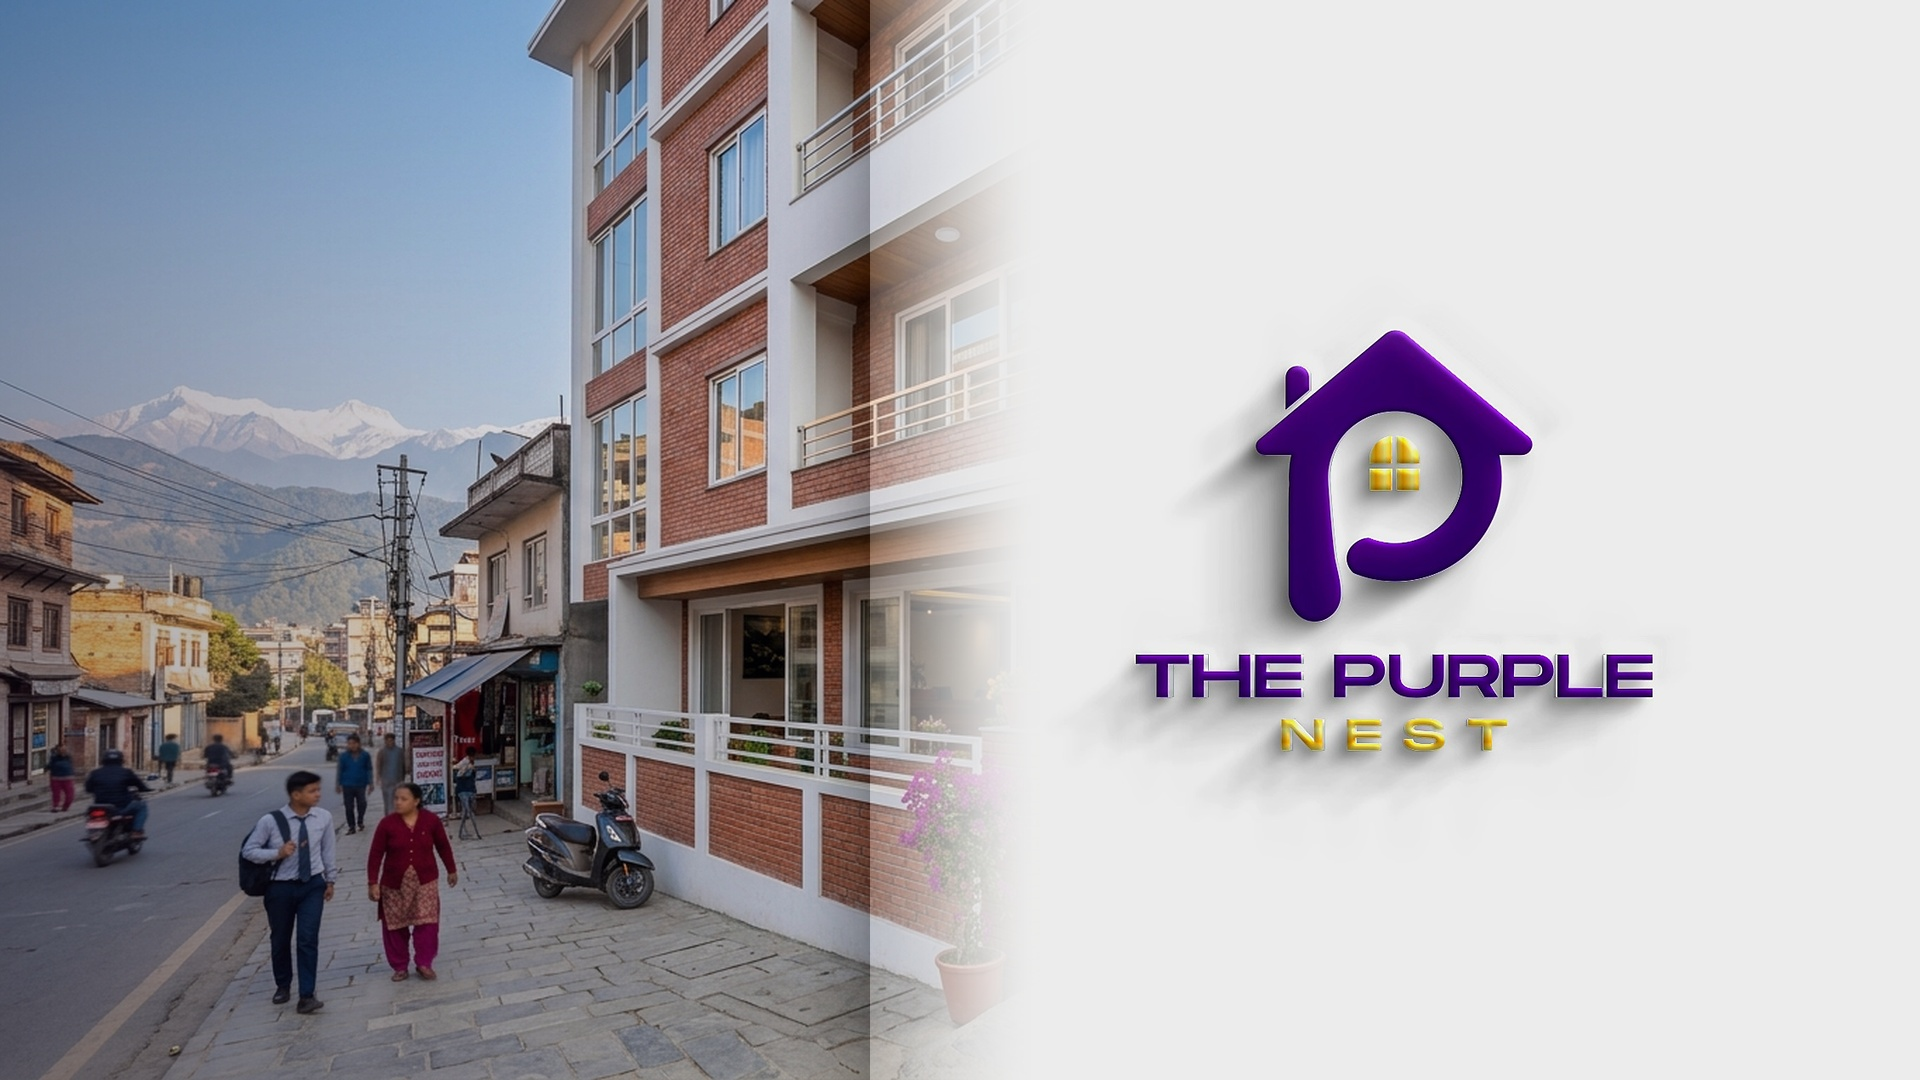
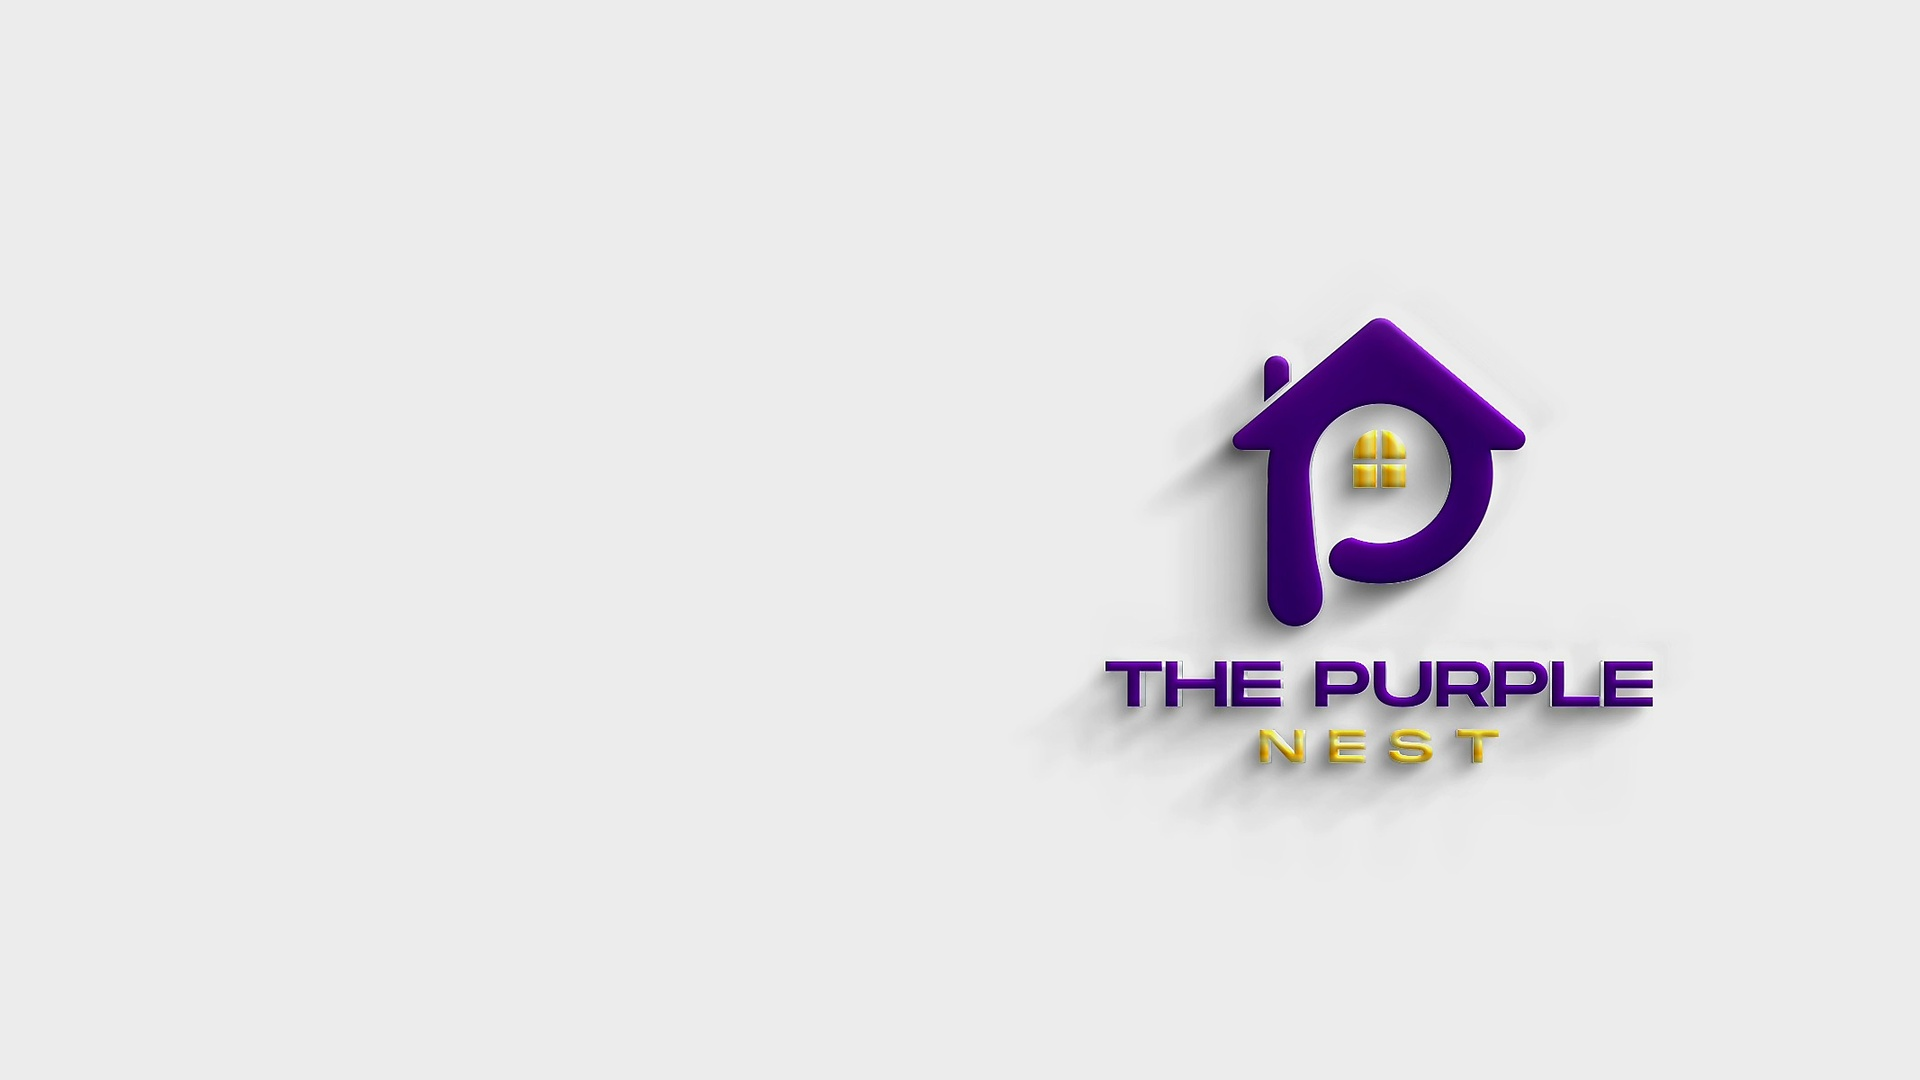
fix(hero): remove black gradient and dark cards, use brand purple typography for clear background

diff --git a/src/components/site/hero.tsx b/src/components/site/hero.tsx
@@ -27,7 +27,7 @@ export function Hero({ settings, rooms }: { settings: SiteSettings; rooms: Room[
   return (
     <section id="top" aria-roledescription="carousel" aria-label="Highlights">
       <div
-        className="relative h-[calc(100svh-104px)] min-h-[560px] max-h-[860px] overflow-hidden bg-ink"
+        className="relative h-[calc(100svh-104px)] min-h-[560px] max-h-[860px] overflow-hidden bg-[#ececec]"
         onMouseEnter={() => setPaused(true)}
         onMouseLeave={() => setPaused(false)}
       >
@@ -50,40 +50,38 @@ export function Hero({ settings, rooms }: { settings: SiteSettings; rooms: Room[
             ) : (
               <div className="size-full bg-[radial-gradient(circle_at_75%_30%,var(--color-brand)_0%,var(--color-ink)_65%)]" />
             )}
-            {/* Lighter, clear gradient so background imagery stays visible while maintaining text contrast */}
-            <div className="absolute inset-0 bg-gradient-to-r from-black/55 via-black/25 to-black/5" />
           </div>
         ))}
 
-        <div className="relative mx-auto flex h-full max-w-[1200px] items-center px-5 py-8">
+        <div className="relative mx-auto flex h-full max-w-[1200px] items-start sm:items-center px-5 pt-6 pb-8 sm:py-8">
           {slides.map(
             (s, i) =>
               i === index && (
                 <div
                   key={i}
-                  className="max-w-2xl rounded-3xl border border-white/20 bg-black/50 p-6 backdrop-blur-md shadow-2xl sm:p-8 md:p-9 text-white animate-fade-up"
+                  className="max-w-2xl py-4 animate-fade-up"
                 >
                   {/* Location & 3 Blocks Badge */}
-                  <div className="mb-4 inline-flex flex-wrap items-center gap-2 rounded-full border border-sun/60 bg-black/60 px-3.5 py-1.5 text-xs font-semibold text-white shadow-sm">
-                    <span className="flex items-center gap-1.5 text-sun">
-                      <MapPin className="size-3.5 shrink-0" />
+                  <div className="mb-4 inline-flex flex-wrap items-center gap-2 rounded-full border border-brand/30 bg-white/95 px-4 py-1.5 text-xs font-bold text-brand shadow-sm">
+                    <span className="flex items-center gap-1.5 text-brand">
+                      <MapPin className="size-3.5 shrink-0 text-brand" />
                       <span>Sinpa Marg, Gwarko, Lalitpur</span>
                     </span>
-                    <span className="text-white/40">•</span>
-                    <span className="flex items-center gap-1.5 text-amber-300">
-                      <Building2 className="size-3.5 shrink-0" />
+                    <span className="text-brand/40">•</span>
+                    <span className="flex items-center gap-1.5 text-brand">
+                      <Building2 className="size-3.5 shrink-0 text-brand" />
                       <span>3 Dedicated Blocks (A, B, C)</span>
                     </span>
                   </div>
 
-                  <h1 className="display text-[clamp(2.8rem,7vw,5.5rem)] leading-[0.98] drop-shadow-[0_4px_18px_rgba(0,0,0,0.45)]">
+                  <h1 className="display text-[clamp(2.8rem,7vw,5.5rem)] leading-[0.98] text-brand [text-shadow:0_1px_3px_rgba(255,255,255,0.95),0_0_15px_rgba(255,255,255,0.7)]">
                     {s.title}
                   </h1>
 
                   {cheapest > 0 && (
-                    <p className="label-caps mt-4 flex flex-wrap items-baseline gap-x-3 text-[13px] !tracking-[0.32em] text-white/90">
+                    <p className="label-caps mt-4 flex flex-wrap items-baseline gap-x-3 text-[13px] !tracking-[0.32em] text-brand/85 [text-shadow:0_1px_2px_rgba(255,255,255,0.9)]">
                       from{" "}
-                      <span className="oswald text-[2.6rem] sm:text-[3rem] font-bold normal-case leading-none !tracking-normal text-sun drop-shadow-[0_2px_10px_rgba(0,0,0,0.8)]">
+                      <span className="oswald text-[2.6rem] sm:text-[3.2rem] font-bold normal-case leading-none !tracking-normal text-brand drop-shadow-[0_2px_10px_rgba(255,255,255,0.85)]">
                         {formatRs(cheapest)}
                       </span>{" "}
                       a month
@@ -91,33 +89,33 @@ export function Hero({ settings, rooms }: { settings: SiteSettings; rooms: Room[
                   )}
 
                   {s.subtitle && (
-                    <p className="mt-3.5 text-[15.5px] sm:text-[17px] leading-relaxed text-white drop-shadow-[0_1px_4px_rgba(0,0,0,0.6)]">
+                    <p className="mt-3.5 text-[15.5px] sm:text-[17px] font-medium leading-relaxed text-ink [text-shadow:0_1px_2px_rgba(255,255,255,0.95)]">
                       {s.subtitle}
                     </p>
                   )}
 
                   {/* Quick highlights pill strip */}
-                  <div className="mt-5 flex flex-wrap items-center gap-2 text-xs text-white">
-                    <span className="inline-flex items-center gap-1.5 rounded-lg border border-white/25 bg-white/15 px-3 py-1.5 font-medium shadow-xs backdrop-blur-xs">
-                      <Building2 className="size-3.5 text-sun" />
+                  <div className="mt-5 flex flex-wrap items-center gap-2 text-xs">
+                    <span className="inline-flex items-center gap-1.5 rounded-lg border border-brand/25 bg-white/95 px-3 py-1.5 font-bold text-brand shadow-xs">
+                      <Building2 className="size-3.5 text-brand" />
                       <span>Block A • Block B • Block C</span>
                     </span>
-                    <span className="inline-flex items-center gap-1.5 rounded-lg border border-white/25 bg-white/15 px-3 py-1.5 font-medium shadow-xs backdrop-blur-xs">
-                      <MapPin className="size-3.5 text-sun" />
+                    <span className="inline-flex items-center gap-1.5 rounded-lg border border-brand/25 bg-white/95 px-3 py-1.5 font-bold text-brand shadow-xs">
+                      <MapPin className="size-3.5 text-brand" />
                       <span>Near Gwarko Chowk</span>
                     </span>
-                    <span className="inline-flex items-center gap-1.5 rounded-lg border border-white/25 bg-white/15 px-3 py-1.5 font-medium shadow-xs backdrop-blur-xs">
+                    <span className="inline-flex items-center gap-1.5 rounded-lg border border-brand/25 bg-white/95 px-3 py-1.5 font-bold text-brand shadow-xs">
                       <span>🍲 4 Fresh Meals Daily</span>
                     </span>
                   </div>
 
                   <div className="mt-7 flex flex-wrap items-center gap-3.5">
-                    <a href="#rooms" className="tbtn tbtn-sun shadow-lg">
+                    <a href="#rooms" className="tbtn tbtn-sun shadow-lg font-bold text-brand">
                       View 3 Blocks & Rooms
                     </a>
                     <a
                       href="#contact"
-                      className="tbtn border-2 border-white/80 bg-white/15 text-white hover:bg-white hover:text-ink font-semibold backdrop-blur-xs shadow-md transition"
+                      className="tbtn border-2 border-brand bg-white/95 text-brand hover:bg-brand hover:text-white font-bold shadow-md transition"
                     >
                       Visit Us in Gwarko
                     </a>
@@ -133,7 +131,7 @@ export function Hero({ settings, rooms }: { settings: SiteSettings; rooms: Room[
               type="button"
               onClick={() => go(-1)}
               aria-label="Previous slide"
-              className="absolute left-5 top-1/2 hidden size-14 -translate-y-1/2 place-items-center rounded-full border-2 border-white/50 bg-black/30 text-white backdrop-blur-xs transition hover:border-sun hover:bg-sun hover:text-ink md:grid"
+              className="absolute left-5 top-1/2 hidden size-14 -translate-y-1/2 place-items-center rounded-full border-2 border-brand/40 bg-white/90 text-brand shadow-md transition hover:border-brand hover:bg-brand hover:text-white md:grid"
             >
               <ChevronLeft className="size-6" />
             </button>
@@ -141,7 +139,7 @@ export function Hero({ settings, rooms }: { settings: SiteSettings; rooms: Room[
               type="button"
               onClick={() => go(1)}
               aria-label="Next slide"
-              className="absolute right-5 top-1/2 hidden size-14 -translate-y-1/2 place-items-center rounded-full border-2 border-white/50 bg-black/30 text-white backdrop-blur-xs transition hover:border-sun hover:bg-sun hover:text-ink md:grid"
+              className="absolute right-5 top-1/2 hidden size-14 -translate-y-1/2 place-items-center rounded-full border-2 border-brand/40 bg-white/90 text-brand shadow-md transition hover:border-brand hover:bg-brand hover:text-white md:grid"
             >
               <ChevronRight className="size-6" />
             </button>
@@ -154,7 +152,7 @@ export function Hero({ settings, rooms }: { settings: SiteSettings; rooms: Room[
                   aria-current={i === index}
                   onClick={() => setIndex(i)}
                   className={`size-3.5 rounded-full border-2 transition ${
-                    i === index ? "border-sun bg-sun scale-110" : "border-white bg-transparent hover:bg-white"
+                    i === index ? "border-brand bg-brand scale-110" : "border-brand/50 bg-white/80 hover:bg-brand/30"
                   }`}
                 />
               ))}

diff --git a/src/lib/data.ts b/src/lib/data.ts
@@ -12,7 +12,7 @@ export const DEFAULT_SETTINGS: SiteSettings = {
   logo_url: "/images/purple-nest-logo.png",
   hero_slides: [
     {
-      image: "/images/purple-nest-3d.jpg",
+      image: "/images/hero-hoarding-mobile.jpg",
       desktop_image: "/images/hero-hoarding-16-9-desktop.jpg",
       title: "The Purple Nest",
       subtitle: "Premier student accommodation across dedicated residential blocks (Block A, B & C) — situated at Sinpa Marg, Gwarko, Lalitpur with quick Ring Road access.",
